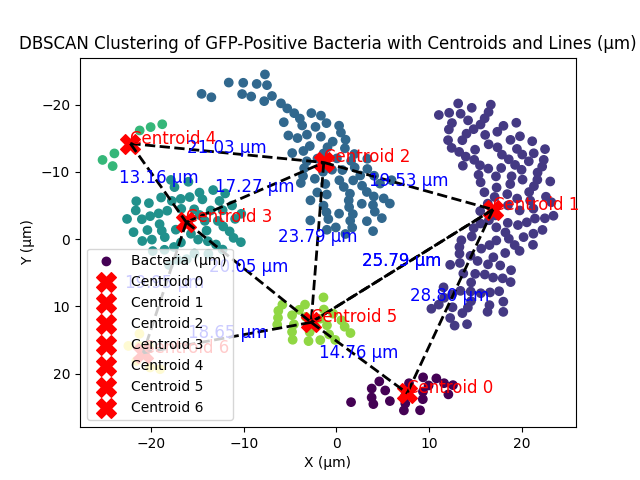
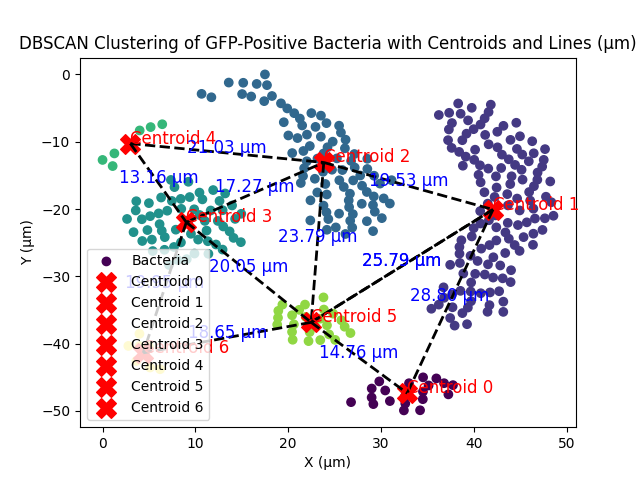
Refactoring code

diff --git a/data_analysis.py b/data_analysis.py
@@ -11,8 +11,15 @@ def clustering(bacteria):
     # Extracting the spatial positions (x, y) as features for clustering, and converting to micrometers
     positions = np.array([[float(bacterium[1]) / 10, float(bacterium[2]) / 10] for bacterium in bacteria])
 
+    # Calculate the offsets (minimum values to shift positions into positive coordinates)
+    offset_x = -np.min(positions[:, 0]) 
+    offset_y = -np.min(positions[:, 1]) 
+
+    # Shift all bacteria positions
+    shifted_positions = positions + np.array([offset_x, offset_y])
+
     # DBSCAN clustering
-    db = DBSCAN(eps=5, min_samples=2).fit(positions)  # Adjusted eps for micrometers
+    db = DBSCAN(eps=5, min_samples=2).fit(shifted_positions)  # Adjusted eps for micrometers
 
     # Get cluster labels
     labels = db.labels_
@@ -26,7 +33,8 @@ def clustering(bacteria):
     for label, bacterium in zip(labels, bacteria):
         if label not in clusters:
             clusters[label] = []
-        clusters[label].append([float(bacterium[1]) / 10, float(bacterium[2]) / 10])  # Convert to micrometers
+        # Convert to micrometers and use shifted positions for clustering
+        clusters[label].append([float(bacterium[1]) / 10 + offset_x, float(bacterium[2]) / 10 + offset_y])
 
     # Calculate the centroid of each cluster
     centroids = {}
@@ -35,20 +43,19 @@ def clustering(bacteria):
         centroid = cluster_positions.mean(axis=0)  # Calculate the centroid
         centroids[cluster_id] = centroid
 
-    centroids_array = np.array(list(centroids.values()))
-    return centroids_array, positions, labels
+
+    # Invert the Y-values for both the centroids and shifted positions
+    shifted_positions[:, 1] = -shifted_positions[:, 1]  # Invert Y values of shifted positions
+    for cluster_id, centroid in centroids.items():
+        centroid[1] = -centroid[1]  # Invert Y values of centroids
+
+    return centroids, shifted_positions, labels
 
 
 def graph_distance_between_centroids(centroids, positions, labels, pairs, color_expression):
     #Print the centroids
-    #save centroids in a file
-    # with open(path+f"centroids_{color_expression}.txt", mode='w', newline='') as file:
-    #     writer = csv.writer(file)
-    #     writer.writerow(['x','y'])
-    #     writer.writerows(centroids_points)
-
-    # Plot the clusters with centroids and Y-axis inverted
-    plt.scatter(positions[:, 0], positions[:, 1], c=labels, cmap='viridis', label='Bacteria (µm)')
+    plt.scatter(positions[:, 0], positions[:, 1], c=labels, cmap='viridis', label='Bacteria')
+    print(centroids, "centroids")
     for cluster_id, centroid in centroids.items():
         plt.scatter(centroid[0], centroid[1], s=200, c='red', marker='X', label=f'Centroid {cluster_id}')
         plt.text(centroid[0], centroid[1], f'Centroid {cluster_id}', fontsize=12, color='red')
@@ -62,28 +69,14 @@ def graph_distance_between_centroids(centroids, positions, labels, pairs, color_
             distance = euclidean(centroid_1, centroid_2)
             plt.text((centroid_1[0] + centroid_2[0]) / 2, (centroid_1[1] + centroid_2[1]) / 2, 
                     f'{distance:.2f} µm', fontsize=12, color='blue', ha='center')  # Distance in micrometers
-
     plt.xlabel('X (µm)')
     plt.ylabel('Y (µm)')
     plt.title(f'DBSCAN Clustering of {color_expression}-Positive Bacteria with Centroids and Lines (µm)')
     plt.legend()
-    plt.gca().invert_yaxis()
-    plt.savefig(color_expression + '_in_micrometers.png')
+    plt.savefig(f"{path}/{color_expression}_in_micrometers.png")
     plt.show()
 
 
-
-    # # Print the centroids
-    # centroids_points = []
-    # print("\nCentroids of Clusters (in micrometers):")
-    # for cluster_id, centroid in centroids.items():
-    #     print(f"Cluster {cluster_id} Centroid: {centroid[0]} {centroid[1]} µm")
-    #     centroids_points.append([float(centroid[0]),float(centroid[1])])
-
-    # print("ARRAY",centroids_points)
-
-
-#arr is a list of bacteria separed by color
 def voronoi(arrs, bacteria_points, filename, colors, labels): 
     allpoints = []
     for arr in arrs:
@@ -91,76 +84,25 @@ def voronoi(arrs, bacteria_points, filename, colors, labels):
     points = np.array(allpoints)
     vor = Voronoi(points)
 
-    fig = voronoi_plot_2d(vor)
-    
+    fig = voronoi_plot_2d(vor, point_size=6)
+    # add to the fig the label of the points to say the blue is the voronoi points
+    plt.scatter([], [], c='blue', marker='o', label='Voronoi points')
+    # add a unity of messure for the axis
+    plt.xlabel('X (µm)')
+    plt.ylabel('Y (µm)')
+    plt.title('Voronoi Diagram of Bacteria Clusters (µm)')
     for bacteria, color, label in zip(bacteria_points, colors, labels):
         # Add bacteria points
         sub_bacteria_points = np.array(bacteria)
         plt.scatter(sub_bacteria_points[:, 0], sub_bacteria_points[:, 1], c=color, marker='o', label=label)
         plt.legend()
-    
+
     plt.savefig(filename, transparent=True)
     plt.show()
 
-def graph_clustering():
-    bacterias_time = []
-    # id	 x	 y	 theta	 volume	 gfp	 rfp	 yfp	 cfp
-    with open('data/conteos.csv', newline='') as csvfile:
-        spamreader = csv.reader(csvfile)
-        first_row = next(spamreader)  # Read the first row (header)
-        bacteria_actual_group = []
-        for row in spamreader:
-            if(row[0] == "id"):
-                bacterias_time.append(bacteria_actual_group)
-                bacteria_actual_group = []
-            else:
-                bacteria_actual_group.append(row)
-        print("Number of times periods", len(bacterias_time))
-        #print(bacterias_time[0])
 
-    # LOOK IN TIME 1 FOR BACTERIAS GFP
-    bacteria_gfp = [bacterium for bacterium in bacterias_time[1500] if int(bacterium[5]) > 0]
-    bacteria_rfp = [bacterium for bacterium in bacterias_time[1500] if int(bacterium[6]) > 0]
-    bacteria_yfp = [bacterium for bacterium in bacterias_time[1500] if int(bacterium[7]) > 0]
-
-    # Define the relationship between centroids to draw lines between them and calculate distances.
-    # (a, b) represents a line between centroid a and centroid b.
-    pairs_g = [
-        (4, 2), (4, 3), (3, 2), (3, 6), (3, 5), (2, 1),
-        (2, 5), (5, 6), (1, 5), (5, 0), (5, 1), (1, 0)  
-    ]
-
-    pairs_r = [
-        (3, 2), (3, 4), (3, 0), 
-        (2, 0), 
-        (0, 4), (0, 1),
-        (1, 4)
-    ]
-
-    pairs_y = [
-        (4, 3), (4, 5), (4, 0), (3, 5), (3, 2), (5, 0),
-        (5, 2), (2, 0), (0, 1)  
-    ]
-
-    clustering(bacteria_gfp, pairs_g, "GFP")
-    clustering(bacteria_rfp, pairs_r,  "RFP")
-    clustering(bacteria_yfp, pairs_y,  "YFP")
-
-def graph_voronoi(centroids):
-    color_expression = ["GFP", "RFP", "YFP"]
-    for color in color_expression:
-        with open(path+f"centroids_{color}.txt", newline='') as csvfile: 
-            spamreader = csv.reader(csvfile)
-            first_row = next(spamreader)
-            print(first_row)
-            centroids = []
-            for row in spamreader:
-                centroids.append([float(row[0]), float(row[1])])
-            voronoi(centroids, path+ f"voronoi_{color}.png")
-
-
-
-
+# Global variables
+# Arrays that represent the relation between centroids, they are used to calculate distance between centroids
 pairs_g = [
     (4, 2), (4, 3), (3, 2), (3, 6), (3, 5), (2, 1),
     (2, 5), (5, 6), (1, 5), (5, 0), (5, 1), (1, 0)  
@@ -178,7 +120,6 @@ pairs_y = [
     (5, 2), (2, 0), (0, 1)  
 ]
 
-
 def main():
     bacterias_time = []
     # id	 x	 y	 theta	 volume	 gfp	 rfp	 yfp	 cfp
@@ -193,32 +134,30 @@ def main():
             else:
                 bacteria_actual_group.append(row)
         print("Number of times periods", len(bacterias_time))
-        #print(bacterias_time[0])
 
-    # LOOK IN TIME 1 FOR BACTERIAS GFP
+    # Obtain bacteria in a specific time (i.e 1500)
     bacteria_gfp = [bacterium for bacterium in bacterias_time[1500] if int(bacterium[5]) > 0]
     bacteria_rfp = [bacterium for bacterium in bacterias_time[1500] if int(bacterium[6]) > 0]
     bacteria_yfp = [bacterium for bacterium in bacterias_time[1500] if int(bacterium[7]) > 0]
 
-
-
-    #graph_clustering()
+    # Clustering process
     centroids_gfp, positions_gfp, labels_gfp = clustering(bacteria_gfp)
     centroids_rfp, positions_rfp, labels_rfp = clustering(bacteria_rfp)
     centroids_yfp, positions_yfp, labels_yfp = clustering(bacteria_yfp)
-    
-    # GRAPHING DISTANCE BETWEEN CENTROIDS
-    #graph_distance_between_centroids(centroids_gfp, positions_gfp, labels_gfp, pairs_g, "GFP")
-    #graph_distance_between_centroids(centroids_rfp, positions_rfp, labels_rfp, pairs_r, "RFP")
-    #graph_distance_between_centroids(centroids_yfp, positions_yfp, labels_yfp, pairs_y, "YFP")
 
-    # GRAPHING VORONOI DIAGRAMS WITH BACTERIA
-    #voronoi(centroids_gfp, positions_gfp, path+f"voronoi_GFP.png", "green")
-    #voronoi(centroids_rfp, positions_rfp, path+f"voronoi_RFP.png","red")
-    #voronoi(centroids_yfp, positions_yfp, path+f"voronoi_YFP.png","darkorange")
-    # all points
+    # GRAPHING DISTANCE BETWEEN CENTROIDS
+    graph_distance_between_centroids(centroids_gfp, positions_gfp, labels_gfp, pairs_g, "GFP")
+    graph_distance_between_centroids(centroids_rfp, positions_rfp, labels_rfp, pairs_r, "RFP")
+    graph_distance_between_centroids(centroids_yfp, positions_yfp, labels_yfp, pairs_y, "YFP")
+
+    # Convert Dictionary to array
+    centroids_array_grp = np.array(list(centroids_gfp.values()))
+    centroids_array_rfp = np.array(list(centroids_rfp.values()))
+    centroids_array_yfp = np.array(list(centroids_yfp.values()))
+
+    # all points with voronoi
     voronoi(
-        [centroids_gfp, centroids_rfp, centroids_yfp], 
+        [centroids_array_grp, centroids_array_rfp, centroids_array_yfp], 
         [positions_gfp, positions_rfp, positions_yfp], 
         path+f"voronoi_all.png", 
         ["green", "red", "darkorange"],
@@ -226,4 +165,5 @@ def main():
     )
     
 
-main()
+if __name__ == "__main__":
+    main()
